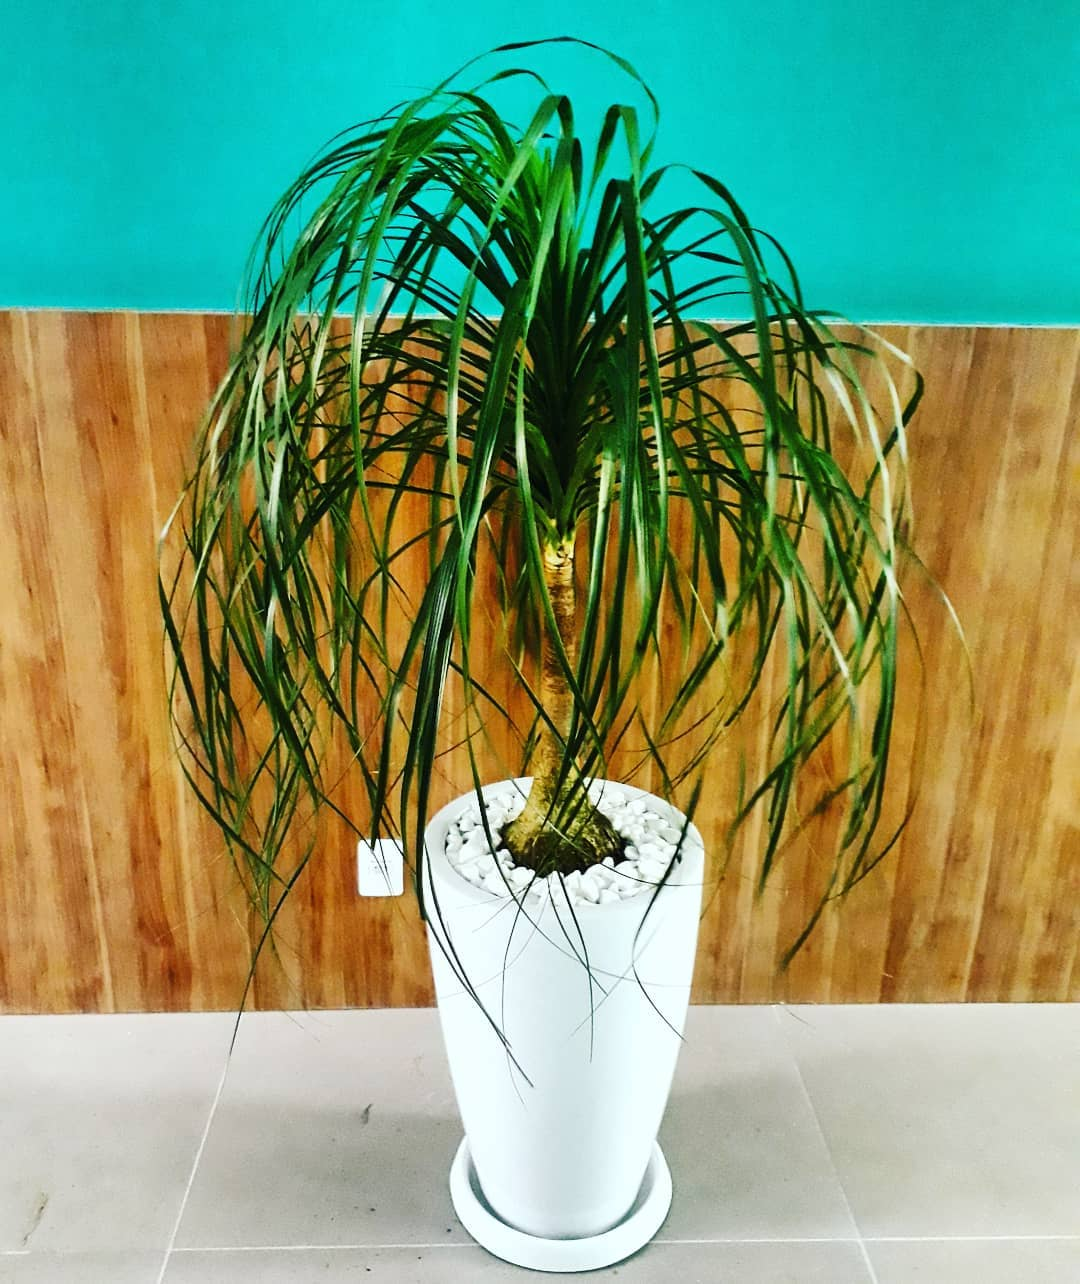
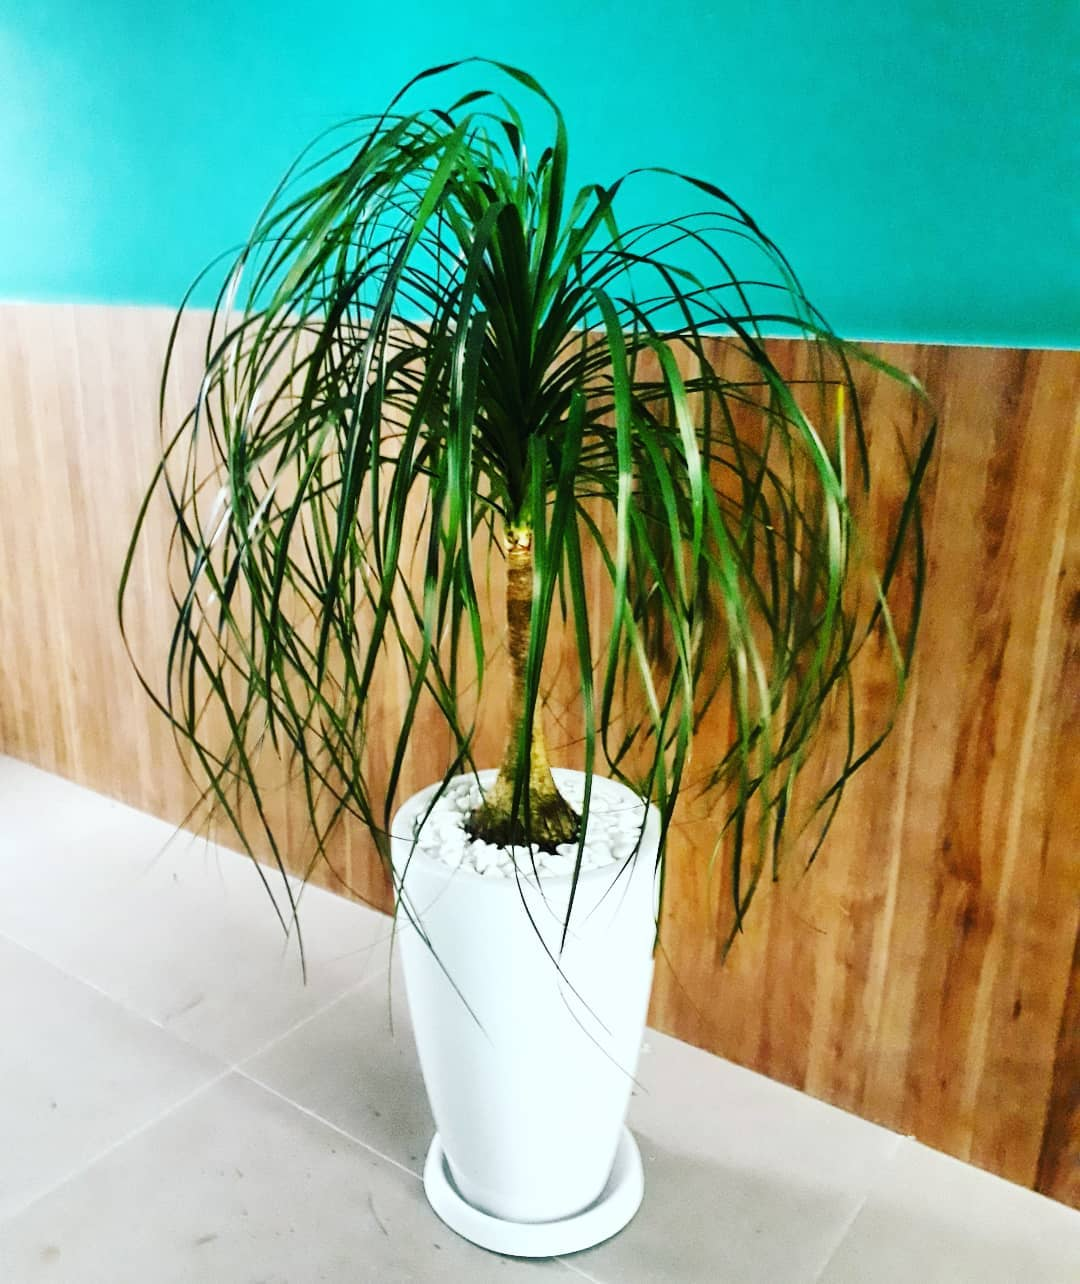
STYLE/ ajustes em textos e imagens

diff --git a/src/data/projectsData.js b/src/data/projectsData.js
@@ -27,7 +27,7 @@ export const projectsData = [
     clientType: "residencial",
     location: "São Paulo, SP",
     year: "2023",
-    featuredImage: "/images/components/hero/Modern-hero.webp",
+    featuredImage: "/images/projects/Jardim-tropical/tropical-2.webp",
     gallery: [
       "/images/projects/Jardim-tropical/tropical-1.webp",
       "/images/projects/Jardim-tropical/tropical-2.webp",
@@ -37,7 +37,7 @@ export const projectsData = [
       "/images/projects/Jardim-tropical/tropical-6.webp",
     ],
     fullDescription:
-      "Este jardim tropical apresenta um design moderno e elegante, criando um caminho paisagístico que conduz a um belo espelho d'água. O projeto incorpora folhagem diversificada, pedras roladas naturais, bromélias coloridas e orquídeas exóticas, criando um ambiente tropical sofisticado. A composição harmoniosa entre os elementos naturais e o espelho d'água proporciona uma experiência sensorial única, conectando os moradores com a natureza de forma contemporânea e refinada.",
+      "Este jardim tropical apresenta um design moderno e elegante, criando um caminho através do jardim de entrada que conduz desde a rampa de acesso até o espelho d'água. O projeto incorpora folhagem diversificada, pedras roladas naturais, bromélias coloridas e orquídeas exóticas, criando um ambiente tropical sofisticado. A composição harmoniosa entre os elementos naturais e o espelho d'água proporciona uma experiência sensorial única, conectando os moradores com a natureza de forma contemporânea e refinada.",
     featured: true,
   },
   {
@@ -61,7 +61,7 @@ export const projectsData = [
       "/images/projects/Hotel-jardins/jardins-09.jpg",
     ],
     fullDescription:
-      "Este projeto de paisagismo para um hotel no bairro dos Jardins representa uma renovação completa dos espaços verdes. Mantivemos estrategicamente apenas as palmeiras Phoenix existentes, que serviram como elementos estruturais do novo design. Criamos formas e volumes dinâmicos nos canteiros para gerar movimento visual e interesse estético. As espécies selecionadas incluem Strelitzia para altura e cor, buxus para estrutura e forma, murta para textura, dianella para contraste foliar e moreia para pontos focais. Esta combinação resulta em um paisagismo comercial sofisticado e de baixa manutenção.",
+      "Este projeto de paisagismo para um hotel no bairro dos Jardins representa uma inovação em sua área verde externa. Mantivemos estrategicamente apenas as palmeiras Phoenix existentes, que serviram como elementos estruturais do novo design. Criamos formas e volumes dinâmicos nos canteiros para gerar movimento visual e interesse estético. As espécies selecionadas incluem Strelitzia para altura e cor, buxus para estrutura e forma, murta para cobrir alvenaria na base da fonte, dianella para contraste foliar e moreia para pontos focais. Esta combinação resulta em um paisagismo comercial sofisticado e de baixa manutenção.",
     featured: true,
   },
   {
@@ -90,10 +90,9 @@ export const projectsData = [
       "/images/projects/Sicoob-liberdade/sicoob-14.jpg",
       "/images/projects/Sicoob-liberdade/sicoob-15.jpg",
       "/images/projects/Sicoob-liberdade/sicoob-16.jpg",
-      "/images/projects/Sicoob-liberdade/sicoob-17.jpg",
     ],
     fullDescription:
-      "Projeto paisagístico desenvolvido para a sede corporativa da SICOOB Metalcred no bairro da Liberdade, São Paulo, em 2020. O conceito do projeto combina funcionalidade empresarial com elementos naturais, utilizando uma abordagem diferenciada para ambientes internos e externos. Nas áreas internas, optamos por peças em fibra na cor branca, criando um visual clean e moderno que complementa o ambiente corporativo. Para as áreas externas, escolhemos vasos em cimento natural que conferem robustez e durabilidade. O destaque do projeto é a composição com vasos em cimento plantados com bambu mosso torto, criando um elemento visual marcante e trazendo movimento natural ao espaço corporativo.",
+      "Projeto paisagístico desenvolvido para a sede corporativa da SICOOB Metalcred no bairro da Liberdade, São Paulo, em 2020. O conceito do projeto combina funcionalidade empresarial com elementos naturais, utilizando uma abordagem diferenciada para ambientes internos e externos. Nas áreas internas, optamos por peças em fibra na cor branca, criando um visual clean e moderno que complementa o ambiente corporativo. Para as áreas externas, escolhemos vasos em cimento natural que conferem robustez e durabilidade. O destaque do projeto é a composição com vasos em cimento plantados com bambu mosso torto, criando um elemento visual marcante e trazendo movimento natural à área de eventos externa.",
     featured: true,
   },
 ];

diff --git a/src/pages/AboutUs.jsx b/src/pages/AboutUs.jsx
@@ -88,7 +88,7 @@ export default () => {
               imageSrc: SupportIconImage,
               title: "Atendimento próximo",
               description:
-                "Conversamos de verdade com você para entender o que quer e precisa. Cada projeto é único porque cada pessoa é única.",
+                "Analisamos sua necessidade e desenvolvemos um projeto exclusivo para cada cliente. Cada projeto é único porque cada pessoa é única.",
             },
             {
               imageSrc: ShieldIconImage,
